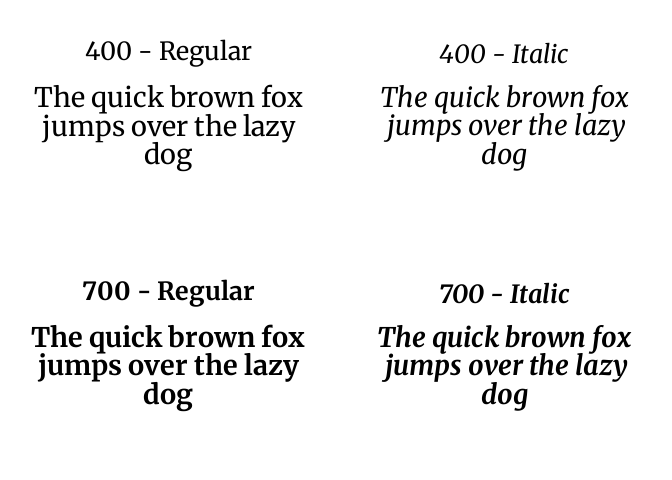
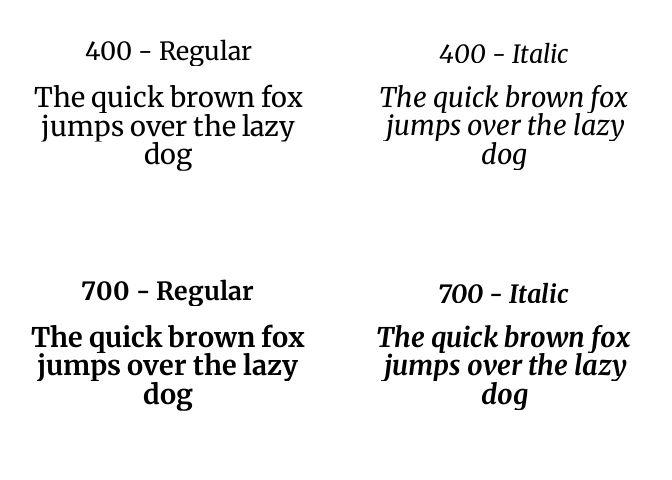
docs: update README with multi-provider coverage and visual improvements
Reflect the full provider API (file, url, custom FontProviderFile) in the
description, features, and a new Providers section. Trim the ggplot2 showcase
from 13 fonts to 3, fix the "How AddFont Works" section title typo, shorten
"Why Bunny Fonts?", add Cache Management prose, and fix minor wording/style
issues throughout.

diff --git a/README.md b/README.md
@@ -17,17 +17,19 @@ status](https://gnoblet.r-universe.dev/AddFonts/badges/checks)](https://gnoblet.
 
 <!-- badges: end -->
 
-Download and register fonts from GDPR-compliant providers for use in R
-graphics. Currently supports [Bunny Fonts](https://fonts.bunny.net/), a
-privacy-first alternative to Google Fonts.
+Download and register fonts in R from multiple sources: Bunny Fonts
+(GDPR-compliant CDN), local files, direct URLs, or custom file-based
+providers. Fonts are cached on first use and registered via `sysfonts`
+so they work immediately with `showtext` and `ggplot2`.
 
 ## Features
 
-- 🔒 **GDPR-compliant**: Uses Bunny Fonts (no tracking, no data
-  collection)
-- 📦 **Simple API**: One function to download and register fonts
-- 💾 **Smart caching**: Downloads once, reuses forever
-- 🎨 **Full variants**: Regular, bold, italic, and bold-italic support
+- 🔒 **Privacy-first default**: Bunny Fonts CDN — no tracking,
+  GDPR-compliant
+- 📂 **Multiple sources**: CDN providers, local files, direct URLs, or
+  custom providers
+- 💾 **Smart caching**: Downloads/copies once, reuses across R sessions
+- 🎨 **Full variant support**: regular, bold, italic, bold-italic
 
 ## Installation
 
@@ -78,7 +80,9 @@ example, to add the “Oswald” font:
 library(AddFonts)
 # Download and register Oswald font
 add_font("oswald")
+#> ✔ Converted '/home/gnoblet/.cache/AddFonts/bunny-oswald-latin-400-normal.woff2' to TTF: '/home/gnoblet/.cache/AddFonts/bunny-oswald-latin-400-normal.ttf'
 #> ✔ Downloaded variant: 'bunny-oswald-latin-400-normal.ttf'
+#> ✔ Converted '/home/gnoblet/.cache/AddFonts/bunny-oswald-latin-700-normal.woff2' to TTF: '/home/gnoblet/.cache/AddFonts/bunny-oswald-latin-700-normal.ttf'
 #> ✔ Downloaded variant: 'bunny-oswald-latin-700-normal.ttf'
 #> ✔ Font "oswald" registered and added to cache.
 ```
@@ -96,52 +100,34 @@ library(AddFonts)
 preview_font("merriweather", regular.wt = 400, bold.wt = 700)
 ```
 
-<img src="man/figures/README-preview-1.png" width="90%" />
+<img src="man/figures/README-preview-1.png" alt="" width="90%" />
 
 ### Add Fonts And Use With ggplot2
 
-Let’s imagine we want to use several fonts in a simple plot. First, we
-loop over a vector of font family names and call `add_font()` for each
-one to download and register them with R.
+Once fonts are registered, they can be used in ggplot2 via `showtext`.
+Here we download three fonts and display them in a plot:
 
 ``` r
 library(AddFonts)
 library(showtext)
 library(ggplot2)
 
-fonts <- c(
-  "oswald",
-  "blaka-ink",
-  "barrio",
-  "major-mono-display",
-  "merriweather",
-  "montserrat",
-  "sixtyfour",
-  "playfair-display",
-  "inter",
-  "aboreto",
-  "aclonica",
-  "akronim",
-  "babylonica"
-)
+fonts <- c("oswald", "merriweather", "playfair-display")
 
 for (font in fonts) {
   add_font(font)
 }
 ```
 
-Now that fonts have been registered, we can use them in a `ggplot` for
-instance.
-
 ``` r
 showtext_auto()
 
 font_data <- data.frame(
   x = 0.5,
-  y = seq(0.95, 0.1, length.out = length(fonts)),
+  y = seq(0.75, 0.25, length.out = length(fonts)),
   label = paste(tools::toTitleCase(gsub("-", " ", fonts)), "Font"),
   family = fonts,
-  size = c(9, 8, 8, 6, 8, 8, 7, 8, 8, 8, 8, 8, 9)
+  size = c(9, 8, 8)
 )
 
 ggplot(
@@ -155,50 +141,108 @@ ggplot(
   theme_void()
 ```
 
-<img src="man/figures/README-unnamed-chunk-4-1.png" width="90%" />
+<img src="man/figures/README-unnamed-chunk-4-1.png" alt="" width="90%" />
 
 ### Cache Management
 
+Fonts are stored in a user-level cache directory. Use these functions to
+inspect or clear the cache if you need to free disk space or force a
+re-download.
+
 ``` r
-# Get cache location
+# Show cache location
 get_cache_dir()
 
-# Clear specific fonts
-cache_clean(families = c("roboto", "open-sans"))
+# Remove a specific font
+cache_clean(families = c("oswald"))
 
-# Clear all fonts
+# Clear everything
 cache_clean(reset = TRUE)
+```
+
+## Providers
+
+`add_font()` supports several font sources via the `provider` argument.
+
+### Bunny Fonts (default)
+
+The default provider. Supply the font family name as it appears on
+[fonts.bunny.net](https://fonts.bunny.net/):
+
+``` r
+add_font("oswald")
+```
+
+### Local files
+
+Pass absolute paths to TTF or OTF files already on disk:
+
+``` r
+add_font(
+  "my-font",
+  provider = "file",
+  variants = list(
+    regular = "/path/to/MyFont-Regular.ttf",
+    bold = "/path/to/MyFont-Bold.ttf"
+  )
+)
+```
+
+### Direct URLs
+
+Download from any URL — no provider account needed:
+
+``` r
+add_font(
+  "my-font",
+  provider = "url",
+  variants = list(
+    regular = "https://example.com/fonts/MyFont-Regular.ttf"
+  )
+)
+```
+
+### Custom file-based providers
+
+Use `FontProviderFile()` for CDN providers that serve static font files
+(e.g. Bye Bye Binary):
+
+``` r
+bbb <- FontProviderFile(
+  source = "bbb",
+  base_url = "https://bye.bye.binary.com/fonts/{family}/{filename}.ttf"
+)
+
+add_font(
+  "alpaga",
+  provider = bbb,
+  variants = list(regular = "Alpaga-Regular", bold = "Alpaga-Bold")
+)
 ```
 
 ## Why Bunny Fonts?
 
-[Bunny Fonts](https://fonts.bunny.net/) is a privacy-focused,
-GDPR-compliant alternative to Google Fonts:
+[Bunny Fonts](https://fonts.bunny.net/) is the default provider because
+it mirrors most of Google Fonts with no tracking and no data collection
+— important for EU users and privacy-conscious projects. It has a fast
+global CDN and is free and open-source.
 
-- 🔒 No tracking or data collection
-- 🚀 Fast global CDN
-- 🆓 Free and open-source
-- 🎨 Includes most popular Google Fonts
+For other font sources, see the [Providers](#providers) section above.
 
-Perfect for EU users or anyone prioritizing privacy.
+## How AddFonts Works
 
-After a period of testing on real world projects using Bunny Fonts as
-the only-and-default font provider, `AddFonts` is meant to integrate
-other providers.
+`add_font()` follows the same three steps for every provider:
 
-## How AddFont Works
+1.  **Check cache** — if the font is already on disk, register it
+    immediately and return
+2.  **Fetch** — download from a CDN, copy from a local path, or fetch
+    from a URL; for Bunny Fonts, also converts WOFF2 → TTF (R’s
+    `sysfonts` requires TTF format)
+3.  **Register** — calls `sysfonts::font_add()` so the font is available
+    in all graphics devices via `showtext`
 
-1.  Downloads WOFF2 files from Bunny Fonts CDN
-2.  Converts to TTF format using `woff2_decompress`
-3.  Caches locally for reuse
-4.  Registers with R via `sysfonts` package
-
-**Why convert?** Bunny Fonts serves WOFF2 (web-optimized), but R’s
-`sysfonts` needs TTF format. Conversion happens once; subsequent uses
-load instantly from cache.
-
-In the background, `S7` classes manage font metadata and caching logic,
-while `sysfonts` handles registration with R’s graphics system.
+In the background, S7 classes manage provider metadata and cache
+entries.
 
 ## Related Packages
 
@@ -211,8 +255,4 @@ while `sysfonts` handles registration with R’s graphics system.
 
 ## License
 
-GPL (\>= 3)
-
-------------------------------------------------------------------------
-
-**Note**: AddFonts is experimental. API may change. Feedback welcome!
+GPL (\>= 3) — see [LICENSE](LICENSE)